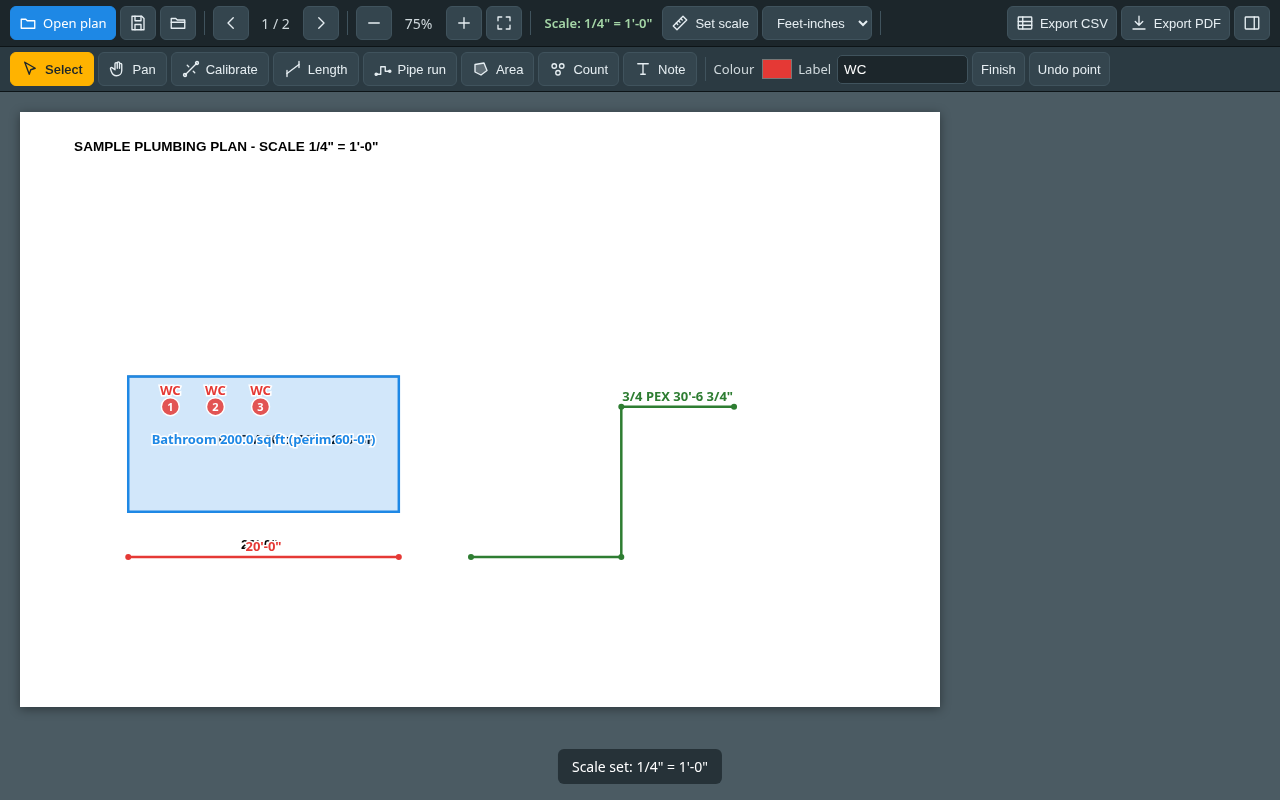
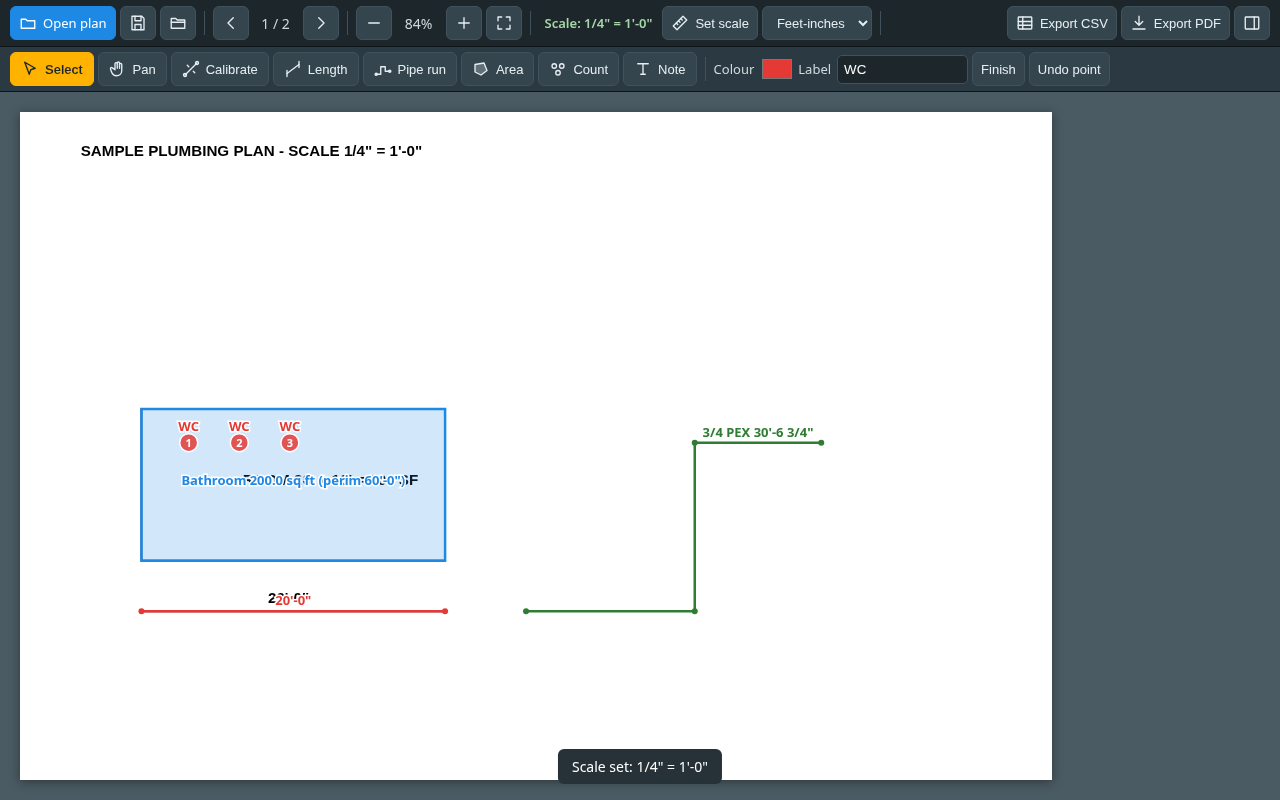
Phone layout: bottom toolbar, contextual draw bar, takeoff sheet, overflow menu, empty state; refit on panel toggle

diff --git a/app.js b/app.js
@@ -35,12 +35,13 @@ function fmtItem(it) {
 function snapOrtho(prev, p) { if (!prev) return p; const dx = Math.abs(p[0] - prev[0]), dy = Math.abs(p[1] - prev[1]); return dx >= dy ? [p[0], prev[1]] : [prev[0], p[1]]; }
 
 // ---------- loading ----------
-$('#file').addEventListener('change', async e => { const f = e.target.files[0]; if (!f) return; e.target.value = '';
+async function onFile(e) { const f = e.target.files[0]; if (!f) return; e.target.value = '';
   const bytes = new Uint8Array(await f.arrayBuffer());
   await loadDoc(bytes, f.type || (f.name.toLowerCase().endsWith('.pdf') ? 'application/pdf' : 'image/png'), f.name);
   proj = { id: uid(), name: f.name.replace(/\.[^.]+$/, ''), fileName: f.name, fileType: doc.mime, units: $('#units').value, scales: {}, items: [] };
   page = 1; fitPage(); await persist(); toast('Opened ' + f.name + '. Set the scale before measuring.');
-});
+}
+$('#file').addEventListener('change', onFile);
 
 async function loadDoc(bytes, mime, name) {
   doc = { name, mime, bytes, sizes: [], vps: [] };
@@ -59,7 +60,7 @@ async function loadDoc(bytes, mime, name) {
 
 // ---------- rendering ----------
 function layout() {
-  if (!doc) return; const { w, h } = doc.sizes[page];
+  document.body.classList.toggle('hasdoc', !!doc); if (!doc) return; const { w, h } = doc.sizes[page];
   stage.style.width = w * zoom + 'px'; stage.style.height = h * zoom + 'px';
   canvas.style.width = w * zoom + 'px'; canvas.style.height = h * zoom + 'px';
   svg.setAttribute('viewBox', `0 0 ${w} ${h}`);
@@ -119,7 +120,7 @@ function draw() {
   svg.innerHTML = ''; if (!proj) return;
   const g = el('g', {}, svg);
   proj.items.filter(i => i.page === page).forEach(i => drawItem(i, g));
-  if (draft) { const pts = hover ? draft.pts.concat([hover]) : draft.pts; if (pts.length) drawItem({ ...draft, pts, label: draft.label }, g, true); }
+  if (draft) { const pts = hover ? draft.pts.concat([hover]) : draft.pts; if (pts.length) drawItem({ ...draft, pts, page, label: draft.label }, g, true); }
   renderList();
 }
 
@@ -364,6 +365,40 @@ const ICONS = {
 document.querySelectorAll('[data-icon]').forEach(b => { const txt = [...b.childNodes].filter(n => n.nodeType === 3).map(n => n.textContent).join('').trim();
   [...b.childNodes].filter(n => n.nodeType === 3).forEach(n => n.remove());
   b.insertAdjacentHTML('afterbegin', `<svg class="ic" viewBox="0 0 24 24">${ICONS[b.dataset.icon]}</svg>` + (txt ? `<span class="t">${txt}</span>` : '')); });
-function togglePanel(force) { document.body.classList.toggle('noside', force); localStorage.setItem('pm-noside', document.body.classList.contains('noside') ? 1 : ''); if (doc) layout(); }
+function togglePanel(force) { document.body.classList.toggle('noside', force); localStorage.setItem('pm-noside', document.body.classList.contains('noside') ? 1 : ''); if (doc) fitPage(); }
 $('#panelBtn').onclick = () => togglePanel(); $('#panelClose').onclick = () => togglePanel(true);
 if (localStorage.getItem('pm-noside')) document.body.classList.add('noside');
+// ---- phone layout ----
+ICONS.more = '<circle cx="5" cy="12" r="1.6"/><circle cx="12" cy="12" r="1.6"/><circle cx="19" cy="12" r="1.6"/>'; $('#moreBtn svg').innerHTML = ICONS.more;
+document.querySelectorAll('#moreBtn,#moreMenu [data-icon],#cancelBtn').forEach(b => { if (b.querySelector('svg')) return; const txt = b.textContent.trim(); b.textContent = '';
+  b.insertAdjacentHTML('afterbegin', `<svg class="ic" viewBox="0 0 24 24">${ICONS[b.dataset.icon]}</svg><span class="t">${txt}</span>`); });
+$('#file2').addEventListener('change', onFile);
+const phoneMQ = matchMedia('(max-width: 700px)');
+const drawEls = ['.opt:nth-of-type(1)', '.opt:nth-of-type(2)'];
+function placeDrawControls() {
+  const opts = [...document.querySelectorAll('.opt')], fin = $('#finishBtn'), und = $('#undoPt');
+  if (phoneMQ.matches) { [...opts, und, fin].forEach(n => $('#drawSlot').appendChild(n)); }
+  else { const hint = $('#hint'); [...opts, fin, und].forEach(n => $('#tools').insertBefore(n, hint)); }
+  updateDrawBar(); if (doc) fitPage();
+}
+function updateDrawBar() {
+  const drawing = ['line', 'poly', 'area', 'count', 'text', 'calibrate'].includes(tool);
+  document.body.classList.toggle('drawing', drawing);
+  document.body.classList.toggle('multi', tool === 'poly' || tool === 'area');
+  document.body.classList.toggle('hasdraft', !!draft);
+  document.body.classList.toggle('cal', tool === 'calibrate');
+}
+phoneMQ.addEventListener('change', placeDrawControls);
+const _draw = draw; draw = function () { _draw(); updateDrawBar(); updateSheet(); };
+$('#cancelBtn').onclick = () => { if (draft) { draft = null; hover = null; draw(); } else setTool('select'); };
+$('#moreBtn').onclick = e => { e.stopPropagation(); $('#moreMenu').hidden = !$('#moreMenu').hidden; };
+document.addEventListener('click', e => { if (!e.target.closest('#moreMenu,#moreBtn')) $('#moreMenu').hidden = true; });
+$('#moreMenu').addEventListener('click', e => { const b = e.target.closest('[data-proxy]'); if (!b) return; $('#moreMenu').hidden = true; $(b.dataset.proxy).click(); });
+$('#units2').addEventListener('change', e => { $('#units').value = e.target.value; $('#units').dispatchEvent(new Event('change')); });
+$('#scaleInfo').onclick = () => $('#scaleBtn').click();
+$('#sheetHandle').onclick = () => { document.body.classList.toggle('sheetopen'); updateSheet(); };
+function updateSheet() { if (!proj) return; const g = groups(); $('#units2').value = proj.units;
+  $('#sheetSum').textContent = g.length ? g.slice(0, 3).map(x => (x.label || TYPE_NAMES[x.type]) + ' ' + fmtGroup(x)).join('  |  ') + (g.length > 3 ? '  ...' : '') : 'Takeoff: no items yet';
+  $('.chev').textContent = document.body.classList.contains('sheetopen') ? 'Hide' : 'Show'; }
+document.addEventListener('gesturestart', e => e.preventDefault());
+placeDrawControls(); layout();

diff --git a/style.css b/style.css
@@ -57,3 +57,69 @@ dialog select{background:#fff;color:#222;border-color:#cfd8dc;width:100%}
 .sidehead .btn{color:#333}
 @media (max-width:1440px){#saveBtn .t,#projBtn .t,#fit .t,#panelBtn .t{display:none}#bar .btn{padding:6px 8px}}
 #side .sidehead .btn{color:#37474f}
+/* ---- empty state ---- */
+#empty{position:absolute;inset:0;display:flex;align-items:center;justify-content:center;padding:20px}
+body.hasdoc #empty{display:none}body:not(.hasdoc) #stage{display:none}
+.emptybox{background:#fff;border-radius:14px;padding:32px 28px;text-align:center;max-width:380px;box-shadow:0 8px 30px #0005;color:#37474f}
+.emptybox h2{margin:8px 0 6px;font-size:22px}.emptybox p{margin:0 0 18px;color:#607d8b}
+svg.ic.big{width:56px;height:56px;color:#1e88e5;stroke-width:1.4}
+.bigbtn{font-size:16px;padding:12px 22px;min-height:46px}
+#drawBar,#moreBtn,#sheetHandle{display:none}
+#moreMenu[hidden]{display:none}
+#moreMenu{position:fixed;z-index:20;top:calc(52px + env(safe-area-inset-top));right:calc(8px + env(safe-area-inset-right));background:#263238;border:1px solid #40535d;border-radius:10px;padding:6px;display:flex;flex-direction:column;gap:4px;min-width:210px;box-shadow:0 8px 24px #0008}
+#moreMenu .btn{justify-content:flex-start;min-height:44px;font-size:15px;background:transparent;border-color:transparent}
+#moreMenu .btn:hover{background:#34454e}
+.mrow{display:flex;align-items:center;justify-content:space-between;color:#e6eef2;padding:4px 10px;font-size:15px;gap:8px}
+button,label,select,input{touch-action:manipulation}
+/* ---- phone ---- */
+@media (max-width:700px){
+  body{padding:env(safe-area-inset-top) env(safe-area-inset-right) 0 env(safe-area-inset-left)}
+  #bar{padding:6px 8px;gap:4px;flex-wrap:nowrap}
+  #bar .sep,#saveBtn,#projBtn,#zoomOut,#zoomIn,#zoomInfo,#fit,#scaleBtn,#units,#csvBtn,#pdfBtn,#panelBtn,#bar .grow{display:none}
+  #moreBtn{display:inline-flex;margin-left:auto}
+  #bar label.btn.primary .t{display:inline}
+  #prev,#next{padding:6px}
+  #pageInfo{min-width:38px;font-size:13px}
+  .scale{background:#34454e;border:1px solid #40535d;border-radius:16px;padding:6px 10px;font-size:12px;white-space:nowrap;overflow:hidden;text-overflow:ellipsis;max-width:130px;cursor:pointer}
+  #main{flex-direction:column;order:2}
+  #tools{order:4;flex-wrap:nowrap;overflow-x:auto;-webkit-overflow-scrolling:touch;padding:6px 6px calc(6px + env(safe-area-inset-bottom));gap:4px;background:#1c262b;border-top:1px solid #0d1417;border-bottom:none;scrollbar-width:none}
+  #tools::-webkit-scrollbar{display:none}
+  #tools .tool{flex-direction:column;gap:2px;min-width:58px;min-height:52px;padding:5px 6px;font-size:11px;background:transparent;border-color:transparent;color:#cfd8dc}
+  #tools .tool span.t{display:inline!important}
+  #tools .tool svg.ic{width:22px;height:22px}
+  #tools .tool.active{background:#ffb300;color:#1c262b}
+  #tools .hint{display:none}
+  #drawBar{order:3;display:none;align-items:center;gap:6px;padding:6px 8px;background:#2b3a42;border-top:1px solid #0d1417;overflow-x:auto}
+  body.hasdoc.drawing #drawBar{display:flex}
+  #drawSlot{display:flex;align-items:center;gap:6px;flex:1;min-width:0}
+  #drawSlot .opt label{font-size:0;gap:0}  /* hide words, keep inputs */
+  #drawSlot .opt input[type=text]{width:100%;min-width:90px;font-size:16px}
+  #drawSlot .opt:nth-child(2){flex:1}
+  #finishBtn,#undoPt{display:none}
+  body.multi #finishBtn,body.hasdraft #undoPt{display:inline-flex}
+  body.cal #drawSlot .opt{display:none}
+  #drawBar .btn{min-height:40px;white-space:nowrap}
+  #finishBtn{background:#1e88e5;border-color:#1e88e5;color:#fff}
+  #viewport{flex:1}
+  #stage{margin:10px}
+  #side{width:auto;order:2;max-height:44px;overflow:hidden;padding:0;border-left:none;border-top:1px solid #0d1417;border-radius:14px 14px 0 0;box-shadow:0 -4px 16px #0004;transition:max-height .2s}
+  body:not(.hasdoc) #side{display:none}
+  body.noside #side{display:block}
+  body.sheetopen #side{max-height:58vh;overflow:auto}
+  #sheetHandle{display:flex;align-items:center;gap:8px;height:44px;padding:0 12px;position:sticky;top:0;background:#f7f9fa;cursor:pointer;font-size:13px;color:#263238}
+  #sheetHandle .grip{position:absolute;left:50%;top:5px;width:36px;height:4px;margin-left:-18px;border-radius:2px;background:#b0bec5}
+  #sheetSum{flex:1;white-space:nowrap;overflow:hidden;text-overflow:ellipsis;font-weight:600;padding-top:4px}
+  .chev{color:#1e88e5;font-weight:600;padding-top:4px}
+  #side>*:not(#sheetHandle){margin-left:12px;margin-right:12px}
+  .sidehead .btn{display:none}
+  input,select,textarea{font-size:16px!important}
+  dialog{width:92vw;max-width:92vw}
+  .row{padding:9px 5px;font-size:14px}
+}
+@media (max-width:700px){
+  #bar label.btn.primary{white-space:nowrap;padding:6px 10px}
+  #bar label.btn.primary .t{font-size:0}#bar label.btn.primary .t::after{content:"Open";font-size:14px}
+  .scale{max-width:none;flex:1;min-width:0}
+  #moreBtn{margin-left:0}#moreBtn .t{display:none}
+  #toast{bottom:calc(150px + env(safe-area-inset-bottom));max-width:90vw;text-align:center}
+}

diff --git a/index.html b/index.html
@@ -1,6 +1,6 @@
 <!doctype html>
 <html lang="en"><head><meta charset="utf-8">
-<meta name="viewport" content="width=device-width,initial-scale=1,maximum-scale=1,user-scalable=no">
+<meta name="viewport" content="width=device-width,initial-scale=1,maximum-scale=1,user-scalable=no,viewport-fit=cover">
 <title>Plan Measure - PDF plan viewer and takeoff</title>
 <link rel="icon" href="data:,">
 <link rel="stylesheet" href="style.css"></head>
@@ -14,12 +14,13 @@
   <span class="sep"></span>
   <button id="zoomOut" class="btn icon" data-icon="minus" title="Zoom out"></button><span id="zoomInfo">100%</span><button id="zoomIn" class="btn icon" data-icon="plus" title="Zoom in"></button><button id="fit" class="btn" data-icon="fit" title="Fit page">Fit</button>
   <span class="sep"></span>
-  <span id="scaleInfo" class="scale">Scale: not set</span>
+  <span id="scaleInfo" class="scale" role="button" title="Set scale">Scale: not set</span>
   <button id="scaleBtn" class="btn" data-icon="ruler">Set scale</button>
   <select id="units" title="Units"><option value="imp">Feet-inches</option><option value="met">Metric (m)</option></select>
   <span class="sep"></span>
   <span class="grow"></span><button id="csvBtn" class="btn" data-icon="table">Export CSV</button>
   <button id="pdfBtn" class="btn" data-icon="download">Export PDF</button>
+  <button id="moreBtn" class="btn icon" data-icon="more" title="More">More</button>
   <button id="panelBtn" class="btn" data-icon="panel" title="Show/hide takeoff panel">Takeoff</button>
 </header>
 <nav id="tools">
@@ -37,9 +38,20 @@
   <button id="undoPt" class="btn small" title="Remove last point (Backspace)">Undo point</button>
   <div class="hint" id="hint">Open a PDF or image plan to start.</div>
 </nav>
+<div id="drawBar"><div id="drawSlot"></div><button id="cancelBtn" class="btn small" data-icon="close">Cancel</button></div>
+<div id="moreMenu" hidden>
+  <button class="btn" data-icon="ruler" data-proxy="#scaleBtn">Set scale</button>
+  <button class="btn" data-icon="fit" data-proxy="#fit">Fit page</button>
+  <button class="btn" data-icon="save" data-proxy="#saveBtn">Save</button>
+  <button class="btn" data-icon="folder" data-proxy="#projBtn">Projects</button>
+  <label class="mrow">Units <select id="units2"><option value="imp">Feet-inches</option><option value="met">Metric (m)</option></select></label>
+  <button class="btn" data-icon="table" data-proxy="#csvBtn">Export CSV</button>
+  <button class="btn" data-icon="download" data-proxy="#pdfBtn">Export PDF</button>
+</div>
 <main id="main">
-  <div id="viewport"><div id="stage"><canvas id="canvas"></canvas><svg id="svg"></svg></div></div>
+  <div id="viewport"><div id="empty"><div class="emptybox"><svg class="ic big" viewBox="0 0 24 24"><path d="M4 3h11l5 5v13H4z"/><path d="M15 3v5h5M8 13h8M8 17h5"/></svg><h2>Open a plan</h2><p>PDF or image (PNG, JPG). Your file stays on this device.</p><label class="btn primary bigbtn">Open plan<input id="file2" type="file" accept="application/pdf,image/*" hidden></label></div></div><div id="stage"><canvas id="canvas"></canvas><svg id="svg"></svg></div></div>
   <aside id="side">
+    <div id="sheetHandle"><span class="grip"></span><span id="sheetSum">Takeoff</span><span class="chev">Show</span></div>
     <div class="sidehead"><h3>Takeoff totals</h3><button id="panelClose" class="btn icon small" data-icon="close" title="Hide panel"></button></div>
     <div id="totals"></div>
     <h3>Items <small>(this page: <span id="pgOnly"><input type="checkbox" id="pageOnly" checked></span>)</small></h3>

diff --git a/test/phone.py b/test/phone.py
@@ -1,0 +1,27 @@
+import sys
+from playwright.sync_api import sync_playwright
+URL=sys.argv[1]; H=792; IN=72; ok=True
+with sync_playwright() as p:
+    b=p.chromium.launch(executable_path='/usr/bin/google-chrome',args=['--no-sandbox'])
+    ctx=b.new_context(viewport={'width':390,'height':844},device_scale_factor=3,is_mobile=True,has_touch=True)
+    pg=ctx.new_page(); errs=[]; pg.on('pageerror',lambda e:errs.append(str(e)))
+    pg.goto(URL); pg.wait_for_timeout(400); pg.screenshot(path='shots/phone-empty.png')
+    pg.set_input_files('#file2','test/sample-plan.pdf'); pg.wait_for_function('window.PM.proj'); pg.wait_for_timeout(600)
+    def tap(x,y):
+        r=pg.evaluate("(()=>{const r=document.querySelector('#svg').getBoundingClientRect();return [r.left,r.top]})()"); z=pg.evaluate('PM.zoom')
+        pg.touchscreen.tap(r[0]+x*z,r[1]+(H-y)*z); pg.wait_for_timeout(80)
+    pg.tap('#scaleInfo'); pg.select_option('#stdScale',label='1/4" = 1\'-0"'); pg.tap('#stdOk')
+    pg.tap('[data-tool=line]'); tap(144,200); tap(144+5*IN,200)
+    v=pg.evaluate('PM.measure(PM.proj.items[0])')/0.3048; print('phone line ft',v); ok&=abs(v-20)<0.2
+    pg.tap('[data-tool=area]'); pg.fill('#label','Bath'); pg.fill('#color','#1e88e5')
+    for x,y in [(144,260),(504,260),(504,440)]: tap(x,y)
+    pg.screenshot(path='shots/phone-drawing.png'); tap(144,440); pg.tap('#finishBtn')
+    a=pg.evaluate('PM.measure(PM.proj.items[1])')/0.3048**2; print('phone area sf',a); ok&=abs(a-200)<2
+    pg.evaluate("document.querySelector('[data-tool=count]').scrollIntoView()"); pg.tap('[data-tool=count]'); pg.fill('#label','WC'); pg.fill('#color','#e53935')
+    for x in (200,260,320): tap(x,400)
+    pg.evaluate("document.querySelector('[data-tool=select]').scrollIntoView()"); pg.tap('[data-tool=select]'); pg.wait_for_timeout(300)
+    pg.screenshot(path='shots/phone-markups.png')
+    pg.tap('#moreBtn'); pg.wait_for_timeout(200); pg.screenshot(path='shots/phone-menu.png'); pg.tap('#moreBtn')
+    pg.tap('#sheetHandle'); pg.wait_for_timeout(400); pg.screenshot(path='shots/phone-sheet.png')
+    print('errors',errs); ok&=not errs; b.close()
+print('PHONE PASS' if ok else 'PHONE FAIL')
